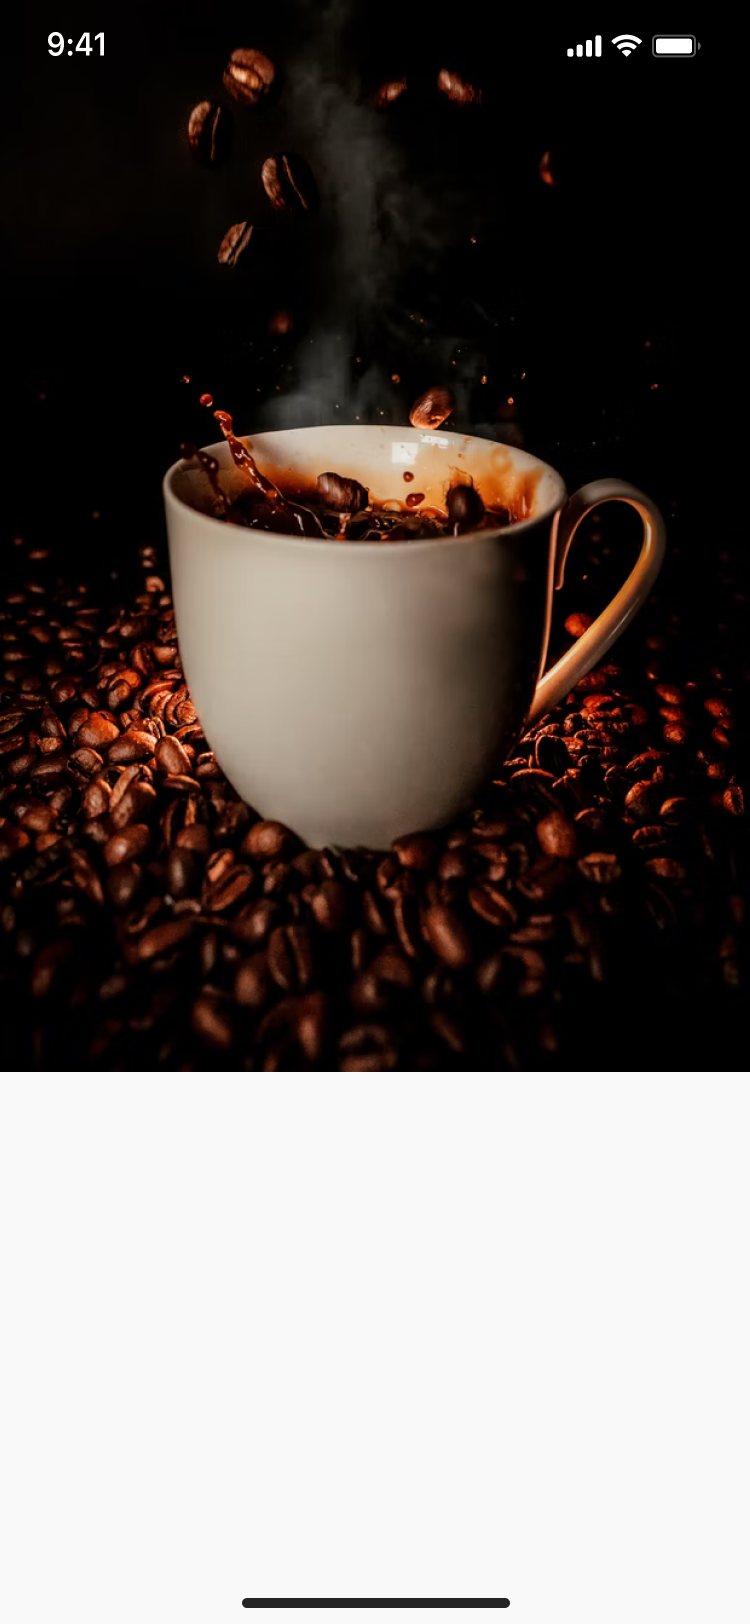
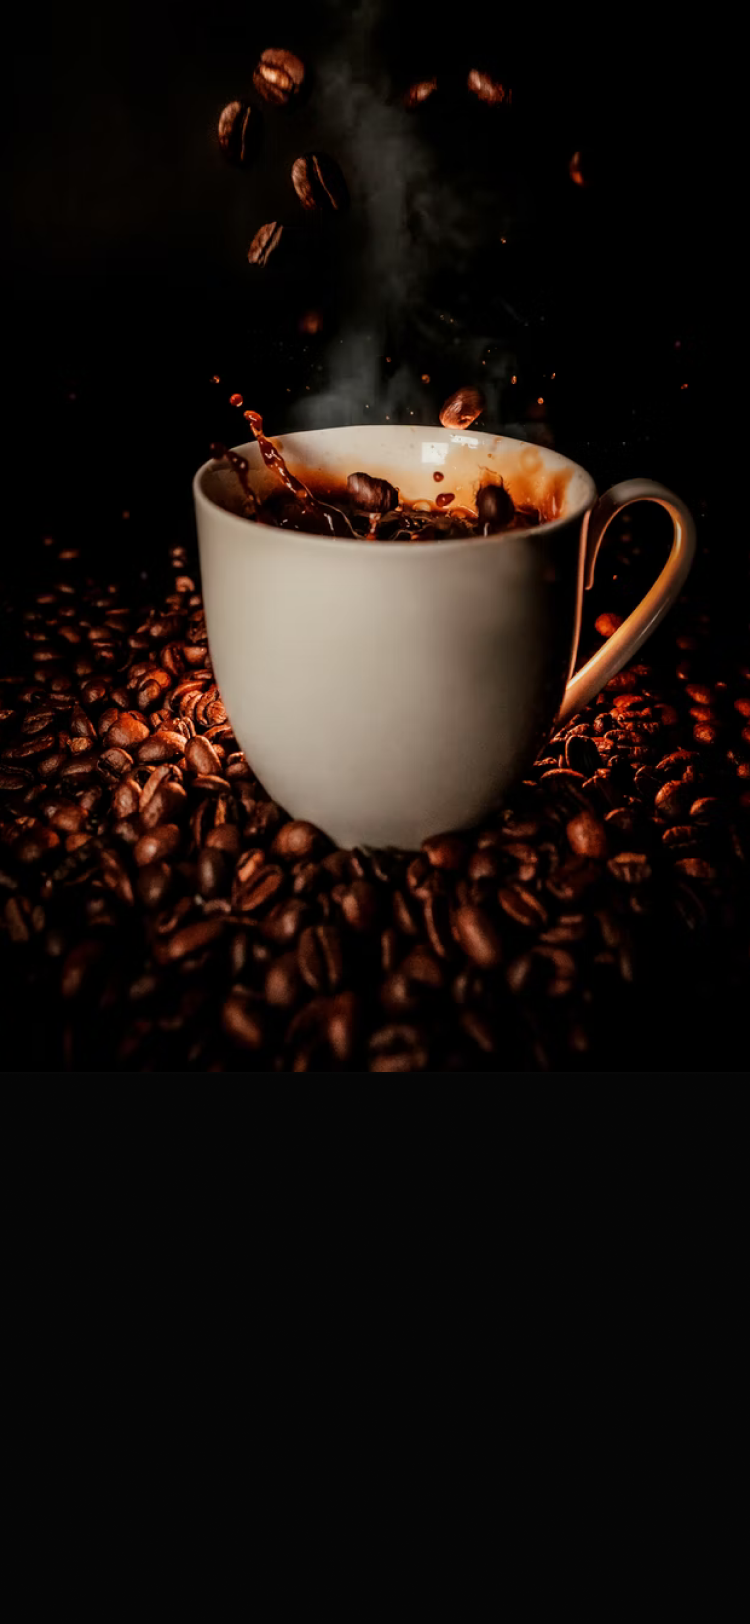
landing page and home ui fixes

diff --git a/app/(tabs)/home.tsx b/app/(tabs)/home.tsx
@@ -8,111 +8,114 @@ import {
   ScrollView,
   TouchableOpacity,
 } from "react-native";
-import { SafeAreaProvider, useSafeAreaInsets } from "react-native-safe-area-context";
+import { StatusBar } from "expo-status-bar";
 import { Ionicons } from "@expo/vector-icons";
+import { SafeAreaProvider } from "react-native-safe-area-context";
 import { coffeeItems } from "../../constants/data";
 import { imageMap } from "../../constants/imageMap";
 import { useRouter } from "expo-router";
 
 export default function HomeScreen() {
-  const insets = useSafeAreaInsets();
   const [activeCategory, setActiveCategory] = useState("All Coffee");
   const router = useRouter();
 
   return (
     <SafeAreaProvider>
+      {/* Transparent Status Bar */}
+      <StatusBar translucent backgroundColor="transparent" style="light" />
+
       <ScrollView>
-      <View
-        style={[
-          styles.container,
-          { paddingTop: insets.top, paddingBottom: insets.bottom },
-        ]}
-      >
-        {/* Header */}
-        <View style={styles.header}>
-          <Text style={styles.locationLabel}>Location</Text>
-          <Text style={styles.locationValue}>Bilzen, Tanjungbalai</Text>
-        </View>
-
-        {/* Search bar */}
-        <View style={styles.searchContainerParent}>
-          <View style={styles.searchContainer}>
-            <Ionicons name="search" size={20} color="#FFFFFF" style={styles.searchIcon} />
-            <TextInput
-              placeholder="Search for coffee..."
-              placeholderTextColor="#FFFFFF"
-              style={styles.searchInput}
-            />
+        <View style={styles.container}>
+          {/* Header */}
+          <View style={styles.header}>
+            <Text style={styles.locationLabel}>Location</Text>
+            <Text style={styles.locationValue}>Bishoftu, Oromia</Text>
           </View>
-        </View>
 
-        {/* Banner */}
-        {/* <Image
-          style={styles.banner}
-          source={require("../../assets/images/coffeebanner.png")}
-        /> */}
+          {/* Search bar (overlay) */}
+          <View style={styles.searchContainerParent}>
+            <View style={styles.searchContainer}>
+              <Ionicons
+                name="search"
+                size={20}
+                color="#FFFFFF"
+                style={styles.searchIcon}
+              />
+              <TextInput
+                placeholder="Search for coffee..."
+                placeholderTextColor="#FFFFFF"
+                style={styles.searchInput}
+              />
+            </View>
+          </View>
 
-        {/* Categories */}
-        <View style={styles.categoryContainer}>
+          {/* Categories */}
+          <View style={styles.categoryContainer}>
+            <ScrollView
+              horizontal
+              showsHorizontalScrollIndicator={false}
+              contentContainerStyle={styles.categoryScroll}
+            >
+              {["All Coffee", "Latte", "Macchiato", "Cappuccino", "Americano"].map(
+                (item, index) => (
+                  <TouchableOpacity
+                    key={index}
+                    style={[
+                      styles.categoryItem,
+                      activeCategory === item && styles.activeCategoryItem,
+                    ]}
+                    onPress={() => setActiveCategory(item)}
+                  >
+                    <Text
+                      style={[
+                        styles.categoryText,
+                        activeCategory === item && styles.activeCategoryText,
+                      ]}
+                    >
+                      {item}
+                    </Text>
+                  </TouchableOpacity>
+                )
+              )}
+            </ScrollView>
+          </View>
+
+          {/* Product List */}
           <ScrollView
-            horizontal
-            showsHorizontalScrollIndicator={false}
-            contentContainerStyle={styles.categoryScroll}
+            style={styles.productList}
+            showsVerticalScrollIndicator={false}
           >
-            {["All Coffee", "Latte", "Macchiato", "Cappuccino", "Americano"].map(
-              (item, index) => (
+            <View style={styles.cardRow}>
+              {coffeeItems.map((coffee, index) => (
                 <TouchableOpacity
                   key={index}
-                  style={[
-                    styles.categoryItem,
-                    activeCategory === item && styles.activeCategoryItem,
-                  ]}
-                  onPress={() => setActiveCategory(item)}
+                  style={styles.card}
+                  onPress={() =>
+                    router.push({
+                      pathname: "/ProductDetail",
+                      params: {
+                        name: coffee.name,
+                        price: coffee.price,
+                        image: imageMap[coffee.image],
+                      },
+                    })
+                  }
                 >
-                  <Text
-                    style={[
-                      styles.categoryText,
-                      activeCategory === item && styles.activeCategoryText,
-                    ]}
-                  >
-                    {item}
-                  </Text>
+                  {imageMap[coffee.image] ? (
+                    <Image
+                      source={imageMap[coffee.image]}
+                      style={styles.cardImage}
+                    />
+                  ) : (
+                    <Text style={{ color: "red" }}>Image Missing</Text>
+                  )}
+                  <Text style={styles.cardTitle}>{coffee.name}</Text>
+                  <Text style={styles.cardPrice}>{coffee.price}</Text>
                 </TouchableOpacity>
-              )
-            )}
+              ))}
+            </View>
           </ScrollView>
         </View>
-
-        {/* Product List */}
-        <ScrollView style={styles.productList} showsVerticalScrollIndicator={false}>
-          <View style={styles.cardRow}>
-            {coffeeItems.map((coffee, index) => (
-              <TouchableOpacity
-                key={index}
-                style={styles.card}
-                onPress={() =>
-                  router.push({
-                    pathname: "/ProductDetail",
-                    params: {
-                      name: coffee.name,
-                      price: coffee.price,
-                      image: imageMap[coffee.image],
-                    },
-                  })
-                }
-              >
-                {imageMap[coffee.image] ? (
-                  <Image source={imageMap[coffee.image]} style={styles.cardImage} />
-                ) : (
-                  <Text style={{ color: "red" }}>Image Missing</Text>
-                )}
-                <Text style={styles.cardTitle}>{coffee.name}</Text>
-                <Text style={styles.cardPrice}>{coffee.price}</Text>
-              </TouchableOpacity>
-            ))}
-          </View>
-        </ScrollView>
-      </View>
       </ScrollView>
     </SafeAreaProvider>
   );
@@ -122,7 +125,7 @@ const styles = StyleSheet.create({
   container: { flex: 1, backgroundColor: "#fff" },
   header: {
     width: "100%",
-    backgroundColor: "#734428",
+    backgroundColor: "#313131",
     borderBottomLeftRadius: 24,
     borderBottomRightRadius: 24,
     paddingHorizontal: 20,
@@ -133,7 +136,7 @@ const styles = StyleSheet.create({
   searchContainerParent: {
     position: "absolute",
     zIndex: 70,
-    top: 170,
+    top: 140, // original position restored
     width: "100%",
     alignItems: "center",
   },
@@ -154,8 +157,7 @@ const styles = StyleSheet.create({
   },
   searchIcon: { marginRight: 8 },
   searchInput: { flex: 1, fontSize: 16, color: "#FFFFFF" },
-  banner: { bottom: 0, padding: 10, width: 360, height:0 },
-  categoryContainer: { marginTop: 10 },
+  categoryContainer: { marginTop: 30 },
   categoryScroll: { paddingHorizontal: 20 },
   categoryItem: {
     paddingVertical: 8,

diff --git a/app/index.tsx b/app/index.tsx
@@ -7,14 +7,21 @@ import { useRouter } from "expo-router";
 function OnboardingContent() {
   const insets = useSafeAreaInsets();
   const router = useRouter();
+  <StatusBar translucent backgroundColor="transparent" style="light" />
 
   return (
     <SafeAreaView
       style={{
         flex: 1,
-        // paddingTop: insets.top,
-        paddingBottom: insets.bottom,
-        backgroundColor: "#FFFFF",
+       
+            width: "100%",
+            backgroundColor: "#313131",
+            borderBottomLeftRadius: 24,
+            borderBottomRightRadius: 24,
+            // paddingHorizontal: 20,
+            // paddingVertical: 20,
+            height: 160, // Full height for top section
+
       }}
     >
       <ImageBackground
